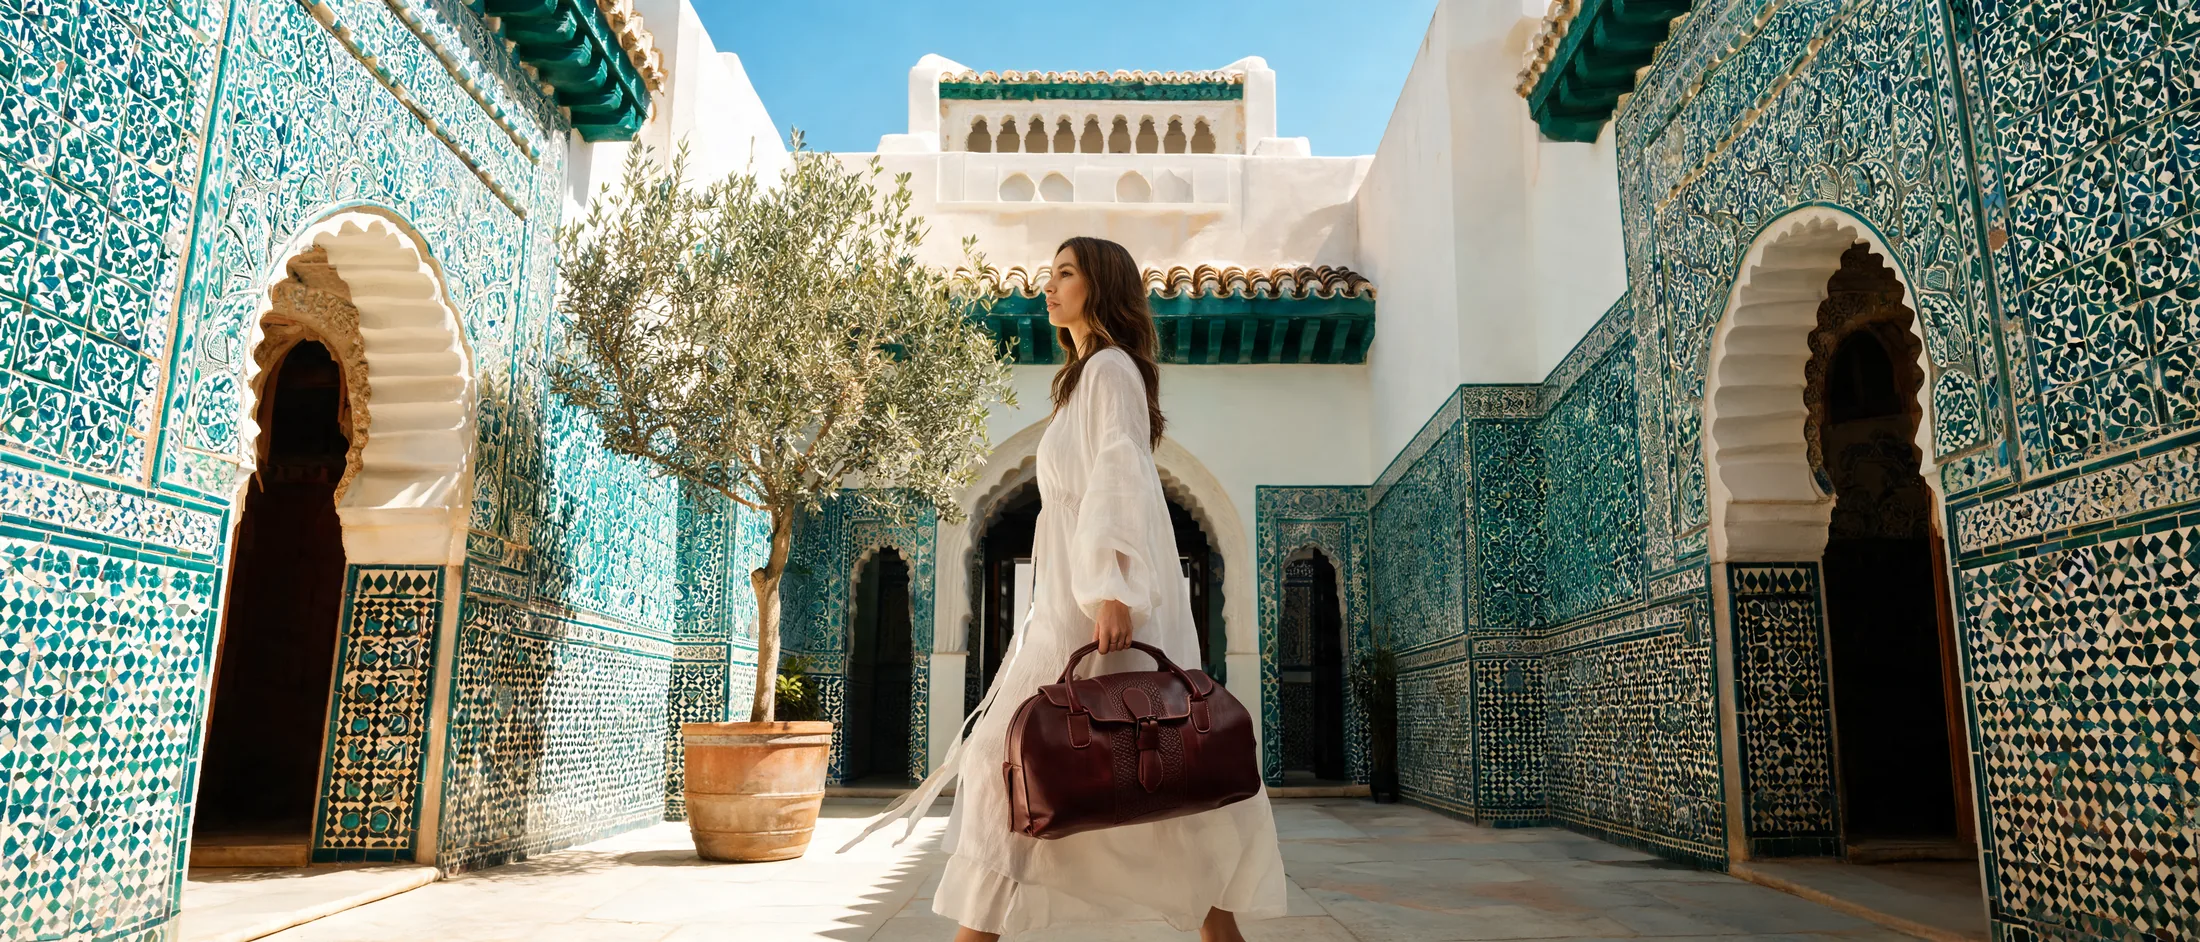
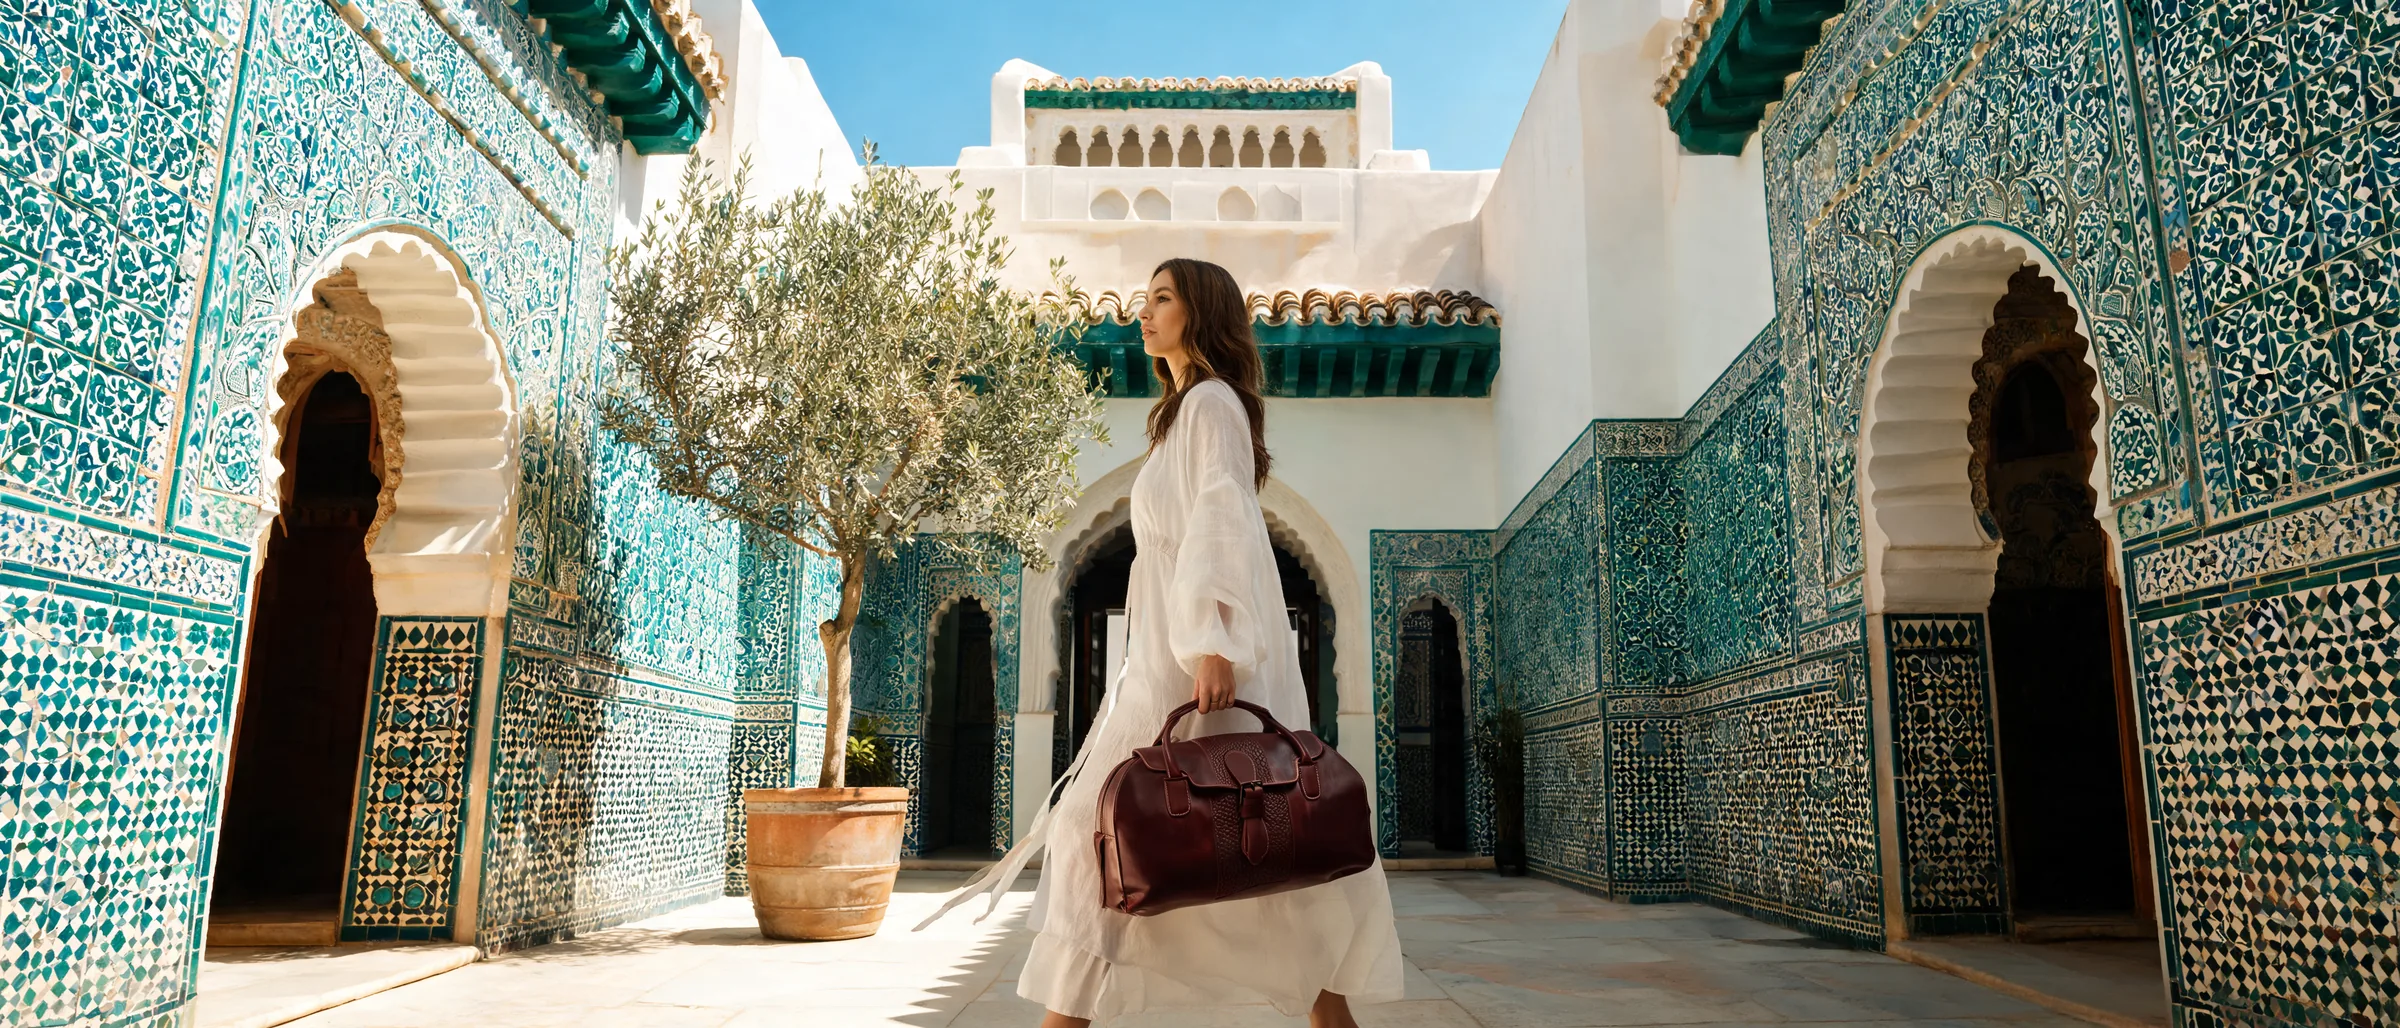
feat: Ryan-chosen hero assets + lifestyle mix (tennis · field · dunes)
Hero (3 beats — user-mandated):
- Model-white-bag-dune-HD.png  → hero/dune-white-bag.webp
- you_generated_the_same_video_t.mp4 → hero/dune-video.mp4 (+ poster)
- Berber-dunes-bag.jpeg → hero/berber-dunes-bag.webp

New §3.5 LifestyleTriptych: tennis-leather · olive-trees · bench-desert.
Mixes the model+tennis+field shots per Ryan's direction so the editorial
reads 'this is what you carry across worlds'.

HeritageStrip → lavender-field (field shot complement to tennis above)
/products opener → model-desert.mp4 (was Berber, now on hero)
/atelier 'Hides' → atelier/leather-table-2 (workshop, not material macro)
/atelier 'Atelier' → atelier/wide-scene (was boutique-wide)
/heritage poster → hero/berber-dunes-bag (matches hero reinforcement)

25 stills + 7 videos encoded from Drive; 4 orphan hero stills removed.

diff --git a/components/LifestyleTriptych.tsx b/components/LifestyleTriptych.tsx
@@ -1,0 +1,68 @@
+import Image from "next/image"
+
+// Three settings, one piece. Mixes the model+tennis+field shots so the
+// editorial reads "this is what you carry across worlds" — Marrakech
+// medina, tennis court, olive grove. Quiet, full-bleed-edge tiles.
+const FRAMES = [
+  {
+    src: "/tanneurs/lifestyle/tennis-leather.webp",
+    alt: "Maison Tanneurs leather bag on a Marrakech tennis court at dusk",
+    place: "The Courts",
+    location: "Marrakech · Quartier Hivernage",
+  },
+  {
+    src: "/tanneurs/lifestyle/olive-trees.webp",
+    alt: "Woman in cream linen with a Maison Tanneurs tote among Mediterranean olive trees",
+    place: "Beneath the Olives",
+    location: "Atlas foothills · Spring",
+  },
+  {
+    src: "/tanneurs/lifestyle/bench-desert.webp",
+    alt: "Woman seated under a cream canopy in the Saharan dunes with a Maison Tanneurs bag",
+    place: "Across the Sand",
+    location: "Erg Chebbi · Golden hour",
+  },
+]
+
+export function LifestyleTriptych() {
+  return (
+    <section
+      data-nav-theme="dark"
+      className="bg-[var(--color-paper)] text-[var(--color-ink)] py-20 lg:py-28 px-6 lg:px-10"
+      aria-label="Three settings, one piece"
+    >
+      <div className="max-w-[1400px] mx-auto">
+        <div className="text-center mb-14 lg:mb-20 max-w-2xl mx-auto">
+          <span className="tech-label block mb-5">§03.5 · Carried Across Worlds</span>
+          <h2 className="font-display text-[clamp(28px,3.6vw,46px)] leading-[1.1] tracking-[-0.008em] text-balance">
+            One piece. Three settings. Same fourteen-day rhythm.
+          </h2>
+        </div>
+
+        <div className="grid grid-cols-1 md:grid-cols-3 gap-6 lg:gap-10">
+          {FRAMES.map((f, i) => (
+            <figure key={f.src} className="group">
+              <div className="relative aspect-[3/4] overflow-hidden bg-[var(--color-plate)]">
+                <Image
+                  src={f.src}
+                  alt={f.alt}
+                  fill
+                  sizes="(max-width: 768px) 100vw, 33vw"
+                  loading="lazy"
+                  className="object-cover transition-transform duration-700 ease-out group-hover:scale-[1.02]"
+                />
+              </div>
+              <figcaption className="pt-5 flex items-baseline gap-3">
+                <span className="font-display text-2xl text-[var(--color-ink-muted)]">{String(i + 1).padStart(2, "0")}</span>
+                <div>
+                  <p className="font-display text-lg leading-tight">{f.place}</p>
+                  <p className="tech-meta mt-1">{f.location}</p>
+                </div>
+              </figcaption>
+            </figure>
+          ))}
+        </div>
+      </div>
+    </section>
+  )
+}

diff --git a/components/HeroCarousel.tsx b/components/HeroCarousel.tsx
@@ -9,44 +9,40 @@ type Slide = {
   alt: string
   numeral: string
   chapter: string
+  caption: string
   duration: number
 }
 
-// Four-beat editorial hero — three stills + one video. Numerals as chapter
-// markers (I–IV). Duration is per slide; video starts/restarts on becoming active.
+// Three-beat editorial hero (assets chosen by Ryan, 2026-06-03).
+// Two stills + one video — desert, generated-loop, Berber.
 const SLIDES: Slide[] = [
   {
     kind: "still",
-    src: "/tanneurs/hero/hero-bag-rocks.webp",
-    alt: "Cognac leather bag on hewn stone in a chalk-rose ryad with carved Moorish arches",
+    src: "/tanneurs/hero/dune-white-bag.webp",
+    alt: "Woman in cream linen on a Saharan dune ridge, carrying a Maison Tanneurs leather bag",
     numeral: "I",
-    chapter: "Quietly Built",
-    duration: 7000,
+    chapter: "Across the Sand",
+    caption: "Cream linen, cognac leather — the contrast our register is built on.",
+    duration: 7400,
   },
   {
     kind: "video",
-    src: "/tanneurs/cinema/model-dune-walk.mp4",
-    poster: "/tanneurs/cinema/model-dune-walk.webp",
-    alt: "Woman in cream linen walking across Saharan dunes, cognac bag in hand",
+    src: "/tanneurs/hero/dune-video.mp4",
+    poster: "/tanneurs/hero/dune-video.webp",
+    alt: "Cinematic loop — Maison Tanneurs object in the Moroccan desert",
     numeral: "II",
-    chapter: "Across the Sand",
-    duration: 8400,
+    chapter: "The Object, Carried",
+    caption: "Filmed on location — the piece, the place, the same fourteen-day rhythm.",
+    duration: 9200,
   },
   {
     kind: "still",
-    src: "/tanneurs/hero/hero-white-ryad.webp",
-    alt: "Woman walking through a chalk-arched Moorish ryad",
+    src: "/tanneurs/hero/berber-dunes-bag.webp",
+    alt: "Berber figure walking the Saharan dunes carrying a Maison Tanneurs bag",
     numeral: "III",
-    chapter: "A Ryad in the Medina",
-    duration: 7000,
-  },
-  {
-    kind: "still",
-    src: "/tanneurs/hero/hero-blonde-sunset.webp",
-    alt: "Cognac leather duffle on a Moroccan rooftop at golden hour",
-    numeral: "IV",
-    chapter: "Golden Hour",
-    duration: 7000,
+    chapter: "Of the Land",
+    caption: "Hand-stitched in Marrakech. Hands that know the leather they cross.",
+    duration: 7400,
   },
 ]
 
@@ -140,7 +136,7 @@ export function HeroCarousel() {
           Numbered, never restocked.
         </h1>
         <p className="mt-6 max-w-xl text-sm lg:text-base text-[var(--color-ivory-soft)] leading-relaxed">
-          {active.chapter} — full-grain leather, solid brass, waxed linen thread. Fourteen days from hide to final stitch.
+          {active.chapter} — {active.caption}
         </p>
       </div>
 

diff --git a/components/HeritageStrip.tsx b/components/HeritageStrip.tsx
@@ -1,8 +1,9 @@
 import Image from "next/image"
 import Link from "next/link"
 
-// Quiet heritage band — one image, one pull quote, link to /heritage.
-// No stat counters (that's the v0 template smell).
+// Wide editorial band — single lifestyle image, single pull quote, link to /heritage.
+// Lavender field setting per Ryan's "model + tennis + field" mix; tennis already
+// appears in the LifestyleTriptych above, so the field shot leads here.
 export function HeritageStrip() {
   return (
     <section
@@ -11,8 +12,8 @@ export function HeritageStrip() {
       aria-label="Heritage"
     >
       <Image
-        src="/tanneurs/atelier/boutique-wide.webp"
-        alt="Maison Tanneurs atelier in Marrakech — light beams through arched windows, artisans at work"
+        src="/tanneurs/lifestyle/lavender-field.webp"
+        alt="Woman in cream linen walking through a lavender field with a Maison Tanneurs leather bag"
         fill
         sizes="100vw"
         loading="lazy"

diff --git a/app/page.tsx b/app/page.tsx
@@ -2,6 +2,7 @@ import { Navigation } from "@/components/Navigation"
 import { HeroCarousel } from "@/components/HeroCarousel"
 import { ObjectOfTheEdition } from "@/components/ObjectOfTheEdition"
 import { FeaturedEdition } from "@/components/FeaturedEdition"
+import { LifestyleTriptych } from "@/components/LifestyleTriptych"
 import { EditorialFilm } from "@/components/EditorialFilm"
 import { Craftsmanship } from "@/components/Craftsmanship"
 import { BatchGuarantee } from "@/components/BatchGuarantee"
@@ -22,7 +23,7 @@ export default async function Home() {
     <main className="min-h-screen">
       <Navigation />
 
-      {/* §1 — Cinematic 4-beat hero */}
+      {/* §1 — Cinematic 3-beat hero (Ryan's chosen assets) */}
       <HeroCarousel />
 
       {/* §2 — One hero object */}
@@ -30,6 +31,9 @@ export default async function Home() {
 
       {/* §3 — Three from the Edition */}
       <FeaturedEdition products={three} />
+
+      {/* §3.5 — Mixed lifestyle: tennis · olive grove · dunes */}
+      <LifestyleTriptych />
 
       {/* §4 — Editorial film opens the process chapter */}
       <EditorialFilm
@@ -51,7 +55,7 @@ export default async function Home() {
       {/* §7 — Materials */}
       <Materials />
 
-      {/* §8 — Heritage strip */}
+      {/* §8 — Heritage strip (lavender field) */}
       <HeritageStrip />
 
       {/* §9 — Newsletter */}

diff --git a/app/products/page.tsx b/app/products/page.tsx
@@ -20,9 +20,9 @@ export default async function ProductsPage() {
       <Navigation />
 
       <EditorialFilm
-        src="/tanneurs/cinema/berber-dunes.mp4"
-        poster="/tanneurs/cinema/berber-dunes-poster.webp"
-        alt="Berber figure in the Saharan dunes at golden hour"
+        src="/tanneurs/cinema/model-desert.mp4"
+        poster="/tanneurs/cinema/night-desert.webp"
+        alt="Model in cream linen across the Moroccan desert at night"
         height="tall"
         navTheme="light"
       />

diff --git a/app/atelier/page.tsx b/app/atelier/page.tsx
@@ -17,7 +17,7 @@ const SLIDES = [
   {
     title: "The Hides",
     body: "Full-grain bovine sourced from Mediterranean herds. Selected at the tannery for grain consistency and weight.",
-    image: "/tanneurs/materials/full-grain.webp",
+    image: "/tanneurs/atelier/leather-table-2.webp",
   },
   {
     title: "The Cut",
@@ -32,7 +32,7 @@ const SLIDES = [
   {
     title: "The Atelier",
     body: "Fourteen days from hide to final stitch. Light falls through the courtyard, the workshop runs on its own quiet rhythm.",
-    image: "/tanneurs/atelier/boutique-wide.webp",
+    image: "/tanneurs/atelier/wide-scene.webp",
   },
   {
     title: "The Object",

diff --git a/app/heritage/page.tsx b/app/heritage/page.tsx
@@ -42,7 +42,7 @@ export default function HeritagePage() {
 
       <EditorialFilm
         src="/tanneurs/cinema/berber-dunes.mp4"
-        poster="/tanneurs/cinema/berber-dunes-poster.webp"
+        poster="/tanneurs/hero/berber-dunes-bag.webp"
         alt="Berber figure on Saharan dune ridge at sunrise"
         pullQuote="Hand-stitched in Marrakech. Carried everywhere."
         attribution="Heritage · Vol. I"

diff --git a/scripts/encode-drive-assets.py b/scripts/encode-drive-assets.py
@@ -3,12 +3,12 @@
 Encode curated Maison Tanneurs Drive assets to WebP and drop into public/tanneurs/.
 Reads from Drive, writes to repo. Idempotent — re-running overwrites.
 
-Asset slots picked from the audit:
-  hero/      — 4-beat homepage carousel
+Asset slots:
+  hero/      — homepage carousel (user-mandated: dune still + Berber still + video)
   cinema/    — editorial-break video posters (videos copied as-is)
-  atelier/   — Craftsmanship Cut/Stitch/Finish
+  atelier/   — Craftsmanship Cut/Stitch/Finish (workshop pics)
   materials/ — Leather / Brass / Thread macros
-  lifestyle/ — single editorial moments for ObjectOfTheEdition + heritage strip
+  lifestyle/ — model + tennis + field mix per Ryan's direction
 """
 from PIL import Image
 import shutil
@@ -20,39 +20,54 @@ REPO = Path("/Users/lezdoors/MAison-Tanneurs-V0/public/tanneurs")
 
 # (drive_relpath, target_path, max_w, quality)
 ASSETS = [
-    # ─── HERO carousel (4 stills) ──────────────────────────────────────
-    ("Bright hero images/Hero-bag-rocks.png",            "hero/hero-bag-rocks.webp",      2400, 82),
-    ("Bright hero images/Hero-Model-white-ryad.png",     "hero/hero-white-ryad.webp",     2400, 82),
-    ("Bright hero images/Hero-model-train.png",          "hero/hero-train.webp",          2400, 82),
-    ("Bright hero images/Hero-blonde -model-sunset.png", "hero/hero-blonde-sunset.webp",  2400, 82),
+    # ─── HERO carousel (user-mandated 3 beats) ─────────────────────────
+    ("Maison tanneurs Atelier assets /Model-white-bag-dune-HD.png",   "hero/dune-white-bag.webp",   2400, 82),
+    ("Maison tanneurs Atelier assets /Berber-dunes-bag.jpeg",         "hero/berber-dunes-bag.webp", 2400, 82),
 
-    # ─── LIFESTYLE / object-of-the-edition + heritage strip ────────────
-    ("Bright hero images/Hero-model-teal-ryad.png",      "lifestyle/teal-ryad.webp",      2200, 82),
-    ("Bright hero images/Hero-Model-olive tress.png",    "lifestyle/olive-trees.webp",    2200, 82),
-    ("Maison tanneurs Atelier assets /Bag in courtyard.png",  "lifestyle/bag-courtyard.webp",  2200, 82),
+    # ─── LIFESTYLE — model + tennis + field mix (Ryan's direction) ─────
+    ("Maison tanneurs Atelier assets /model-tennis-leather bag.png",  "lifestyle/tennis-leather.webp",     2400, 82),
+    ("Maison tanneurs Atelier assets /Model-tennis court-kilim.png",  "lifestyle/tennis-kilim.webp",       2400, 82),
+    ("Maison tanneurs Atelier assets /Hero-Model-olive tress.png",    "lifestyle/olive-trees.webp",        2400, 82),
+    ("Maison tanneurs Atelier assets /Hero-Model-field.png",          "lifestyle/field.webp",              2400, 82),
+    ("Maison tanneurs Atelier assets /model-lavander field- 00.png",  "lifestyle/lavender-field.webp",     2400, 82),
+    ("Maison tanneurs Atelier assets /Model-field- horse.png",        "lifestyle/field-horse.webp",        2400, 82),
+    ("Maison tanneurs Atelier assets /model-white suit-kilim bag-HD.png", "lifestyle/white-suit-kilim.webp", 2400, 82),
+    ("Maison tanneurs Atelier assets /Model-bench-desert-HD.png",     "lifestyle/bench-desert.webp",       2400, 82),
+    ("Maison tanneurs Atelier assets /Hero-model-teal-ryad.png",      "lifestyle/teal-ryad.webp",          2400, 82),
+    ("Maison tanneurs Atelier assets /Hero-Model-white-ryad.png",     "lifestyle/white-ryad.webp",         2400, 82),
 
-    # ─── ATELIER Craftsmanship (Cut / Stitch / Finish) ─────────────────
-    ("Maison tanneurs Atelier assets /atelier-leather-table.png",  "atelier/cut-leather-table.webp", 1800, 82),
-    ("Maison tanneurs Atelier assets /hands-leather work-HD.png",  "atelier/stitch-hands.webp",      1800, 82),
-    ("Maison tanneurs Atelier assets /Leather-atelier.png",        "atelier/finish-atelier.webp",    1800, 82),
+    # ─── ATELIER (workshop, hands, materials in context) ───────────────
+    ("Maison tanneurs Atelier assets /atelier-leather-table.png",     "atelier/cut-leather-table.webp", 1800, 82),
+    ("Maison tanneurs Atelier assets /hands-leather work-HD.png",     "atelier/stitch-hands.webp",      1800, 82),
+    ("Maison tanneurs Atelier assets /Leather-atelier.png",           "atelier/finish-atelier.webp",    1800, 82),
+    ("Maison tanneurs Atelier assets /Ateler scene.png",              "atelier/wide-scene.webp",        2200, 82),
+    ("Maison tanneurs Atelier assets /BLK&white atelier HD.png",      "atelier/bw-atelier.webp",        2200, 82),
+    ("Maison tanneurs Atelier assets /Boutique Wide.png",             "atelier/boutique-wide.webp",     2400, 82),
+    ("Maison tanneurs Atelier assets /leather-table-atelier.png",     "atelier/leather-table-2.webp",   1800, 82),
 
-    # ─── MATERIALS (Leather / Brass-via-bag / Thread) ──────────────────
-    ("Maison tanneurs Atelier assets /leather-bag-couch.png",      "materials/full-grain.webp",      1600, 82),
-    ("Maison tanneurs Atelier assets /BLK&white atelier HD.png",   "materials/solid-brass.webp",     1600, 82),
-    ("Maison tanneurs Atelier assets /hands-leather work.png",     "materials/waxed-linen.webp",     1600, 82),
+    # ─── MATERIALS (Leather / Brass-via-hardware / Thread) ─────────────
+    ("Maison tanneurs Atelier assets /leather-bag-couch.png",         "materials/full-grain.webp",      1600, 82),
+    ("Maison tanneurs Atelier assets /BLK&white atelier HD.png",      "materials/solid-brass.webp",     1600, 82),
+    ("Maison tanneurs Atelier assets /hands-leather work.png",        "materials/waxed-linen.webp",     1600, 82),
 
-    # ─── HERITAGE wide / editorial-break stills ────────────────────────
-    ("Maison tanneurs Atelier assets /Boutique Wide.png",          "atelier/boutique-wide.webp",     2400, 82),
-    ("Maison tanneurs Atelier assets /Model-bench-desert-HD.png",  "cinema/model-bench-desert.webp", 2400, 82),
-    ("Maison tanneurs Atelier assets /Berber-dunes-bag.jpeg",      "cinema/berber-dunes-poster.webp", 2400, 82),
+    # ─── EDITORIAL BREAK posters / heritage atmosphere ─────────────────
+    ("Maison tanneurs Atelier assets /caravan-bags.png",              "cinema/caravan-poster.webp",     2400, 82),
+    ("Maison tanneurs Atelier assets /model-night-desert-HD.png",     "cinema/night-desert.webp",       2400, 82),
+    ("Maison tanneurs Atelier assets /Morning-store-opening.png",     "cinema/morning-store.webp",      2400, 82),
 ]
 
-# Videos copied as-is + we encode a poster from the first frame using ffmpeg if available
+# Videos — user-mandated hero video + atelier process + supplementary loops
 VIDEOS = [
+    # USER-MANDATED HERO VIDEO
+    ("Maison Tanneurs videos/you_generated_the_same_video_t.mp4",     "hero/dune-video.mp4"),
+    # Atelier process opener
     ("Maison Tanneurs videos/Hands at Work.mp4",                       "cinema/hands-at-work.mp4"),
+    # Reserve lifestyle clips
     ("Maison Tanneurs videos/Berber in the dunes.mp4",                 "cinema/berber-dunes.mp4"),
     ("Maison Tanneurs videos/Model-white-bag-dune.mp4",                "cinema/model-dune-walk.mp4"),
     ("Maison Tanneurs videos/Cinematic-medina-zigzag-tote-chocolate.mp4", "cinema/medina-zigzag.mp4"),
+    ("Maison Tanneurs videos/model in desert.mp4",                     "cinema/model-desert.mp4"),
+    ("Maison Tanneurs videos/model-tennis-leather bag.mp4",            "cinema/tennis-leather.mp4"),
 ]
 
 REPO.mkdir(parents=True, exist_ok=True)
@@ -85,6 +100,26 @@ def copy_video(src: Path, dst: Path):
     return True
 
 
+def generate_poster(video: Path, ts: str = "1") -> bool:
+    poster = video.with_suffix(".webp")
+    if poster.exists():
+        return True
+    if shutil.which("ffmpeg") is None:
+        return False
+    tmp = video.parent / "_tmp_poster.jpg"
+    subprocess.run(
+        ["ffmpeg", "-y", "-loglevel", "error", "-ss", ts, "-i", str(video), "-frames:v", "1", str(tmp)],
+        check=False,
+    )
+    if tmp.exists():
+        with Image.open(tmp) as im:
+            im.convert("RGB").save(poster, "WEBP", quality=82, method=6)
+        tmp.unlink()
+        print(f"  poster {poster.relative_to(REPO)}")
+        return True
+    return False
+
+
 def main():
     print("=== STILLS ===")
     ok = miss = 0
@@ -100,34 +135,10 @@ def main():
     for rel, target in VIDEOS:
         if copy_video(DRIVE / rel, REPO / target):
             vok += 1
+            generate_poster(REPO / target)
         else:
             vmiss += 1
     print(f"\nVideos: {vok} copied, {vmiss} missing")
-
-    # Auto-generate posters for any video that has no matching .webp poster yet
-    print("\n=== VIDEO POSTERS (via ffmpeg if available) ===")
-    has_ffmpeg = shutil.which("ffmpeg") is not None
-    if not has_ffmpeg:
-        print("  ffmpeg not on PATH — skipping; videos will use first-frame fallback in markup")
-        return
-    for _, target in VIDEOS:
-        video = REPO / target
-        if not video.exists():
-            continue
-        poster = video.with_suffix(".webp")
-        if poster.exists():
-            continue
-        # Pull frame at 1s into a tmp jpg, then encode to WebP via PIL
-        tmp = REPO / "_tmp_poster.jpg"
-        subprocess.run(
-            ["ffmpeg", "-y", "-loglevel", "error", "-ss", "1", "-i", str(video), "-frames:v", "1", str(tmp)],
-            check=False,
-        )
-        if tmp.exists():
-            with Image.open(tmp) as im:
-                im.convert("RGB").save(poster, "WEBP", quality=82, method=6)
-            tmp.unlink()
-            print(f"  OK    {poster.relative_to(REPO)}")
 
 
 if __name__ == "__main__":